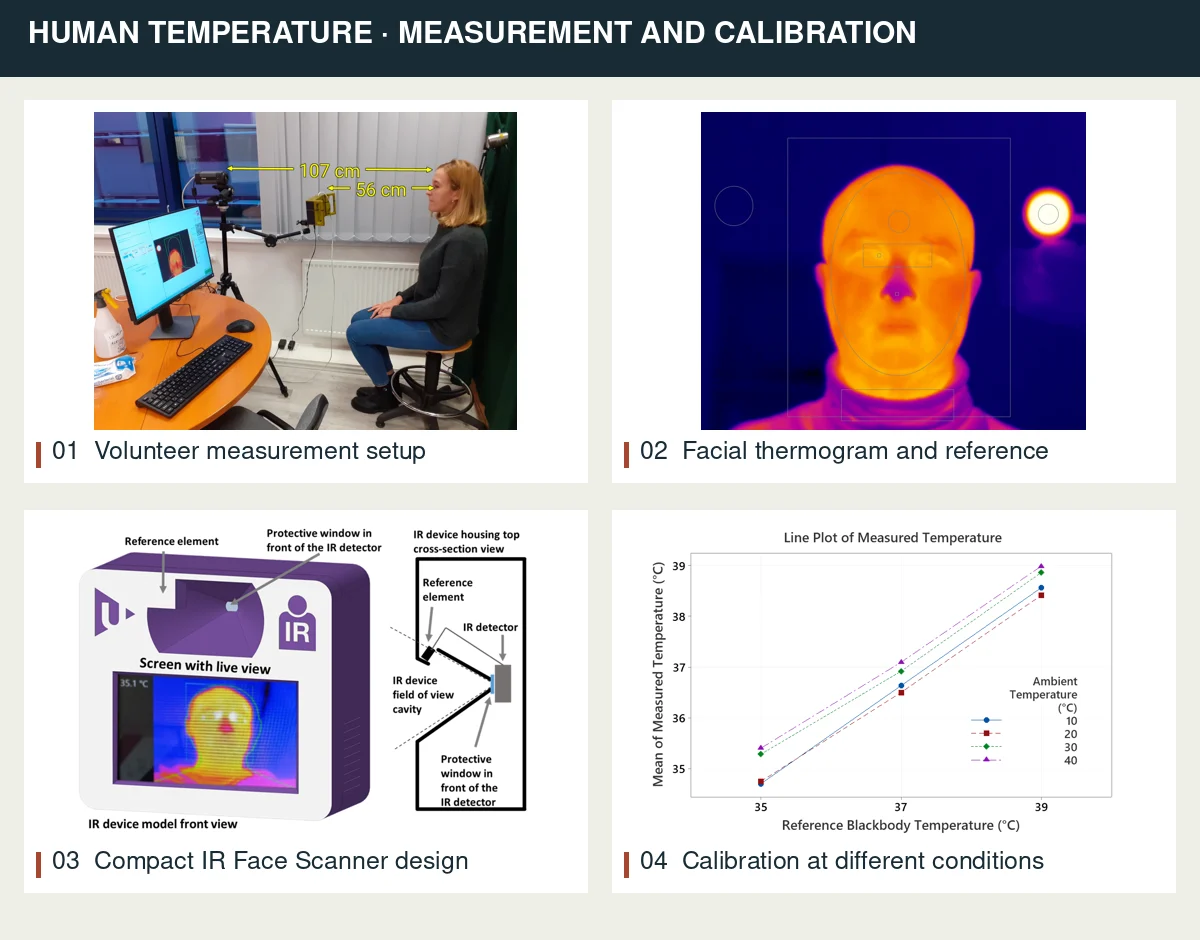
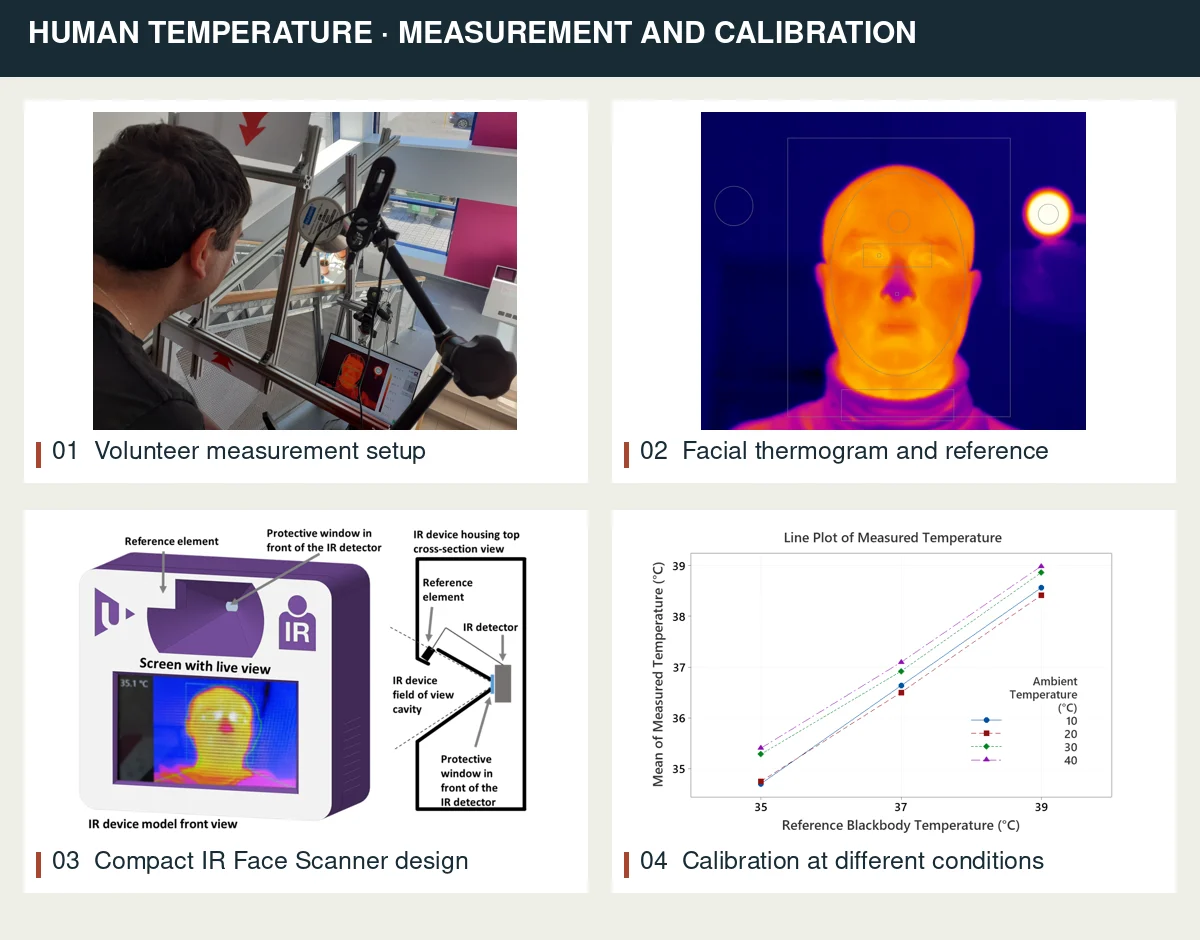
Replace research photo and harden external feeds, browser policy and workflows

Changed region(s): [[0.0617, 0.0926, 0.4317, 0.4628]]

diff --git a/videos.html b/videos.html
@@ -2,6 +2,8 @@
 <html lang="en">
 <head>
   <meta charset="utf-8">
+  <meta http-equiv="Content-Security-Policy" content="default-src 'none'; script-src 'self'; style-src 'self'; img-src 'self' data: https://img.youtube.com; media-src 'self'; connect-src 'self' https://pub.orcid.org https://api.github.com https://raw.githubusercontent.com https://script.google.com https://script.googleusercontent.com; frame-src https://www.youtube-nocookie.com; font-src 'self'; base-uri 'none'; object-src 'none'; form-action 'none'">
+  <meta name="referrer" content="strict-origin-when-cross-origin">
   <meta name="viewport" content="width=device-width, initial-scale=1">
   <meta name="description" content="Michal Švantner — Videos. Thermography, infrared NDT and temperature measurement.">
   <meta name="theme-color" content="#182b35">
@@ -21,7 +23,7 @@
   <div class="page-heading"><p class="eyebrow">Videos</p><h1>Research in motion.</h1><p>Experiments, measurement techniques and research tools — from infrared testing to high-speed imaging.</p></div>
   <section class="youtube-playlist" aria-label="Research videos from the Pracovní YouTube playlist">
     <div class="youtube-player">
-      <iframe src="https://www.youtube-nocookie.com/embed/videoseries?list=PL5j8OBCSHNnQx0IiaYhAmxtuQCGaH8rJG&amp;playsinline=1&amp;rel=0" title="Pracovní — research videos by Michal Švantner" width="960" height="540" referrerpolicy="strict-origin-when-cross-origin" allow="accelerometer; autoplay; clipboard-write; encrypted-media; gyroscope; picture-in-picture; web-share" allowfullscreen></iframe>
+      <iframe src="https://www.youtube-nocookie.com/embed/videoseries?list=PL5j8OBCSHNnQx0IiaYhAmxtuQCGaH8rJG&amp;playsinline=1&amp;rel=0" title="Pracovní — research videos by Michal Švantner" width="960" height="540" referrerpolicy="strict-origin-when-cross-origin" allow="autoplay; encrypted-media; picture-in-picture; fullscreen" allowfullscreen></iframe>
     </div>
     <div class="video-strip-heading"><h2>From the playlist</h2><div class="video-strip-controls"><button type="button" data-video-scroll="-1" aria-label="Previous videos">←</button><button type="button" data-video-scroll="1" aria-label="More videos">→</button></div></div>
     <div class="video-strip" id="video-strip" aria-label="Choose a video"><a class="video-card" href="https://www.youtube.com/watch?v=6pn8Mm6Z4gA&amp;list=PL5j8OBCSHNnQx0IiaYhAmxtuQCGaH8rJG" data-video-id="6pn8Mm6Z4gA" target="_blank" rel="noopener noreferrer" aria-label="Play: Konference Diago 2025"><img src="https://img.youtube.com/vi/6pn8Mm6Z4gA/mqdefault.jpg" alt="" width="320" height="180" loading="lazy"><span>Konference Diago 2025</span></a><a class="video-card" href="https://www.youtube.com/watch?v=VdzXxmeOKjM&amp;list=PL5j8OBCSHNnQx0IiaYhAmxtuQCGaH8rJG" data-video-id="VdzXxmeOKjM" target="_blank" rel="noopener noreferrer" aria-label="Play: IR termografie - nastavení zobrazení rozsahu teplot"><img src="https://img.youtube.com/vi/VdzXxmeOKjM/mqdefault.jpg" alt="" width="320" height="180" loading="lazy"><span>IR termografie - nastavení zobrazení rozsahu teplot</span></a><a class="video-card" href="https://www.youtube.com/watch?v=HNDYMClwNjY&amp;list=PL5j8OBCSHNnQx0IiaYhAmxtuQCGaH8rJG" data-video-id="HNDYMClwNjY" target="_blank" rel="noopener noreferrer" aria-label="Play: Policie v IR :-)"><img src="https://img.youtube.com/vi/HNDYMClwNjY/mqdefault.jpg" alt="" width="320" height="180" loading="lazy"><span>Policie v IR :-)</span></a><a class="video-card" href="https://www.youtube.com/watch?v=Rr8mSIjNJtA&amp;list=PL5j8OBCSHNnQx0IiaYhAmxtuQCGaH8rJG" data-video-id="Rr8mSIjNJtA" target="_blank" rel="noopener noreferrer" aria-label="Play: Gwiddion for IR"><img src="https://img.youtube.com/vi/Rr8mSIjNJtA/mqdefault.jpg" alt="" width="320" height="180" loading="lazy"><span>Gwiddion for IR</span></a><a class="video-card" href="https://www.youtube.com/watch?v=xHsNgFdPtoE&amp;list=PL5j8OBCSHNnQx0IiaYhAmxtuQCGaH8rJG" data-video-id="xHsNgFdPtoE" target="_blank" rel="noopener noreferrer" aria-label="Play: Face mask exhalation recorded by thermographic camera"><img src="https://img.youtube.com/vi/xHsNgFdPtoE/mqdefault.jpg" alt="" width="320" height="180" loading="lazy"><span>Face mask exhalation recorded by thermographic camera</span></a><a class="video-card" href="https://www.youtube.com/watch?v=ri4qCc9NNIg&amp;list=PL5j8OBCSHNnQx0IiaYhAmxtuQCGaH8rJG" data-video-id="ri4qCc9NNIg" target="_blank" rel="noopener noreferrer" aria-label="Play: LabIR NDT software introduction"><img src="https://img.youtube.com/vi/ri4qCc9NNIg/mqdefault.jpg" alt="" width="320" height="180" loading="lazy"><span>LabIR NDT software introduction</span></a><a class="video-card" href="https://www.youtube.com/watch?v=eiu8sfd2T-k&amp;list=PL5j8OBCSHNnQx0IiaYhAmxtuQCGaH8rJG" data-video-id="eiu8sfd2T-k" target="_blank" rel="noopener noreferrer" aria-label="Play: IRNDT flash pulse inspection"><img src="https://img.youtube.com/vi/eiu8sfd2T-k/mqdefault.jpg" alt="" width="320" height="180" loading="lazy"><span>IRNDT flash pulse inspection</span></a><a class="video-card" href="https://www.youtube.com/watch?v=C1tXMS5-4XM&amp;list=PL5j8OBCSHNnQx0IiaYhAmxtuQCGaH8rJG" data-video-id="C1tXMS5-4XM" target="_blank" rel="noopener noreferrer" aria-label="Play: LabIR ThermoStitch software for connecting thermograms"><img src="https://img.youtube.com/vi/C1tXMS5-4XM/mqdefault.jpg" alt="" width="320" height="180" loading="lazy"><span>LabIR ThermoStitch software for connecting thermograms</span></a><a class="video-card" href="https://www.youtube.com/watch?v=__9AyX8sf2I&amp;list=PL5j8OBCSHNnQx0IiaYhAmxtuQCGaH8rJG" data-video-id="__9AyX8sf2I" target="_blank" rel="noopener noreferrer" aria-label="Play: Vysokorychlostní záznam - exploze tlakových lahví 2017"><img src="https://img.youtube.com/vi/__9AyX8sf2I/mqdefault.jpg" alt="" width="320" height="180" loading="lazy"><span>Vysokorychlostní záznam - exploze tlakových lahví 2017</span></a><a class="video-card" href="https://www.youtube.com/watch?v=jYSCrGt52mM&amp;list=PL5j8OBCSHNnQx0IiaYhAmxtuQCGaH8rJG" data-video-id="jYSCrGt52mM" target="_blank" rel="noopener noreferrer" aria-label="Play: Hole drilling residual stress measurement"><img src="https://img.youtube.com/vi/jYSCrGt52mM/mqdefault.jpg" alt="" width="320" height="180" loading="lazy"><span>Hole drilling residual stress measurement</span></a></div>
@@ -31,3 +33,4 @@
   <footer><div class="wrap footer-inner"><span>Michal Švantner</span><span>Research · Measurement · Projects</span><a href="about.html">Contact ↗</a></div></footer>
 </body>
 </html>
+

diff --git a/research.html b/research.html
@@ -2,6 +2,8 @@
 <html lang="en">
 <head>
   <meta charset="utf-8">
+  <meta http-equiv="Content-Security-Policy" content="default-src 'none'; script-src 'self'; style-src 'self'; img-src 'self' data: https://img.youtube.com; media-src 'self'; connect-src 'self' https://pub.orcid.org https://api.github.com https://raw.githubusercontent.com https://script.google.com https://script.googleusercontent.com; frame-src https://www.youtube-nocookie.com; font-src 'self'; base-uri 'none'; object-src 'none'; form-action 'none'">
+  <meta name="referrer" content="strict-origin-when-cross-origin">
   <meta name="viewport" content="width=device-width, initial-scale=1">
   <meta name="description" content="Michal Švantner — Research. Thermography, infrared NDT and temperature measurement.">
   <meta name="theme-color" content="#182b35">
@@ -33,7 +35,7 @@
       <h3 id="human-title">Human temperature measurement</h3>
       <p class="research-subtitle">Evaluating thermographic screening and developing a compact device with an integrated temperature reference.</p>
       <p class="research-description">How reliable is non-contact temperature screening? We study how ambient conditions, calibration and the choice of facial region affect measurements. Our compact IR Face Scanner combines thermal imaging with an integrated heated reference to improve measurement stability and explore the practical limits of estimating body temperature from skin temperature.</p>
-      <figure class="research-poster"><a href="assets/research-temperature-poster.webp" target="_blank" rel="noopener noreferrer" aria-label="Open full-size poster: Human temperature measurement"><img src="assets/research-temperature-poster.webp" width="1200" height="940" alt="Research poster showing a volunteer measurement setup, a facial thermogram, the IR Face Scanner design and calibration results at different ambient temperatures." loading="lazy"></a><figcaption>From volunteer measurements to a calibrated compact device · Select image to enlarge ↗</figcaption></figure>
+      <figure class="research-poster"><a href="assets/research-temperature-poster-v2.webp" target="_blank" rel="noopener noreferrer" aria-label="Open full-size poster: Human temperature measurement"><img src="assets/research-temperature-poster-v2.webp" width="1200" height="940" alt="Research poster showing a volunteer measurement setup, a facial thermogram, the IR Face Scanner design and calibration results at different ambient temperatures." loading="lazy"></a><figcaption>From volunteer measurements to a calibrated compact device · Select image to enlarge ↗</figcaption></figure>
       <dl class="research-highlights"><div><dt>Benefits</dt><dd>Fast, contactless measurement with a built-in reference to improve temperature stability.</dd></div><div><dt>Novelty</dt><dd>An integrated active reference element, supported by statistical studies of facial temperature and measurement conditions.</dd></div><div><dt>Applications</dt><dd>Development and evaluation of temperature-screening systems for workplaces and public spaces, with attention to the limits of skin-temperature measurement.</dd></div></dl>
       <div class="research-papers"><h4>Related papers</h4><ul><li><a href="https://doi.org/10.1016/j.infrared.2024.105176" target="_blank" rel="noopener noreferrer">Thermographic device with a calibrating element for enhanced precision of human temperature measurement ↗</a></li><li><a href="https://doi.org/10.3390/engproc2023051017" target="_blank" rel="noopener noreferrer">Compact Thermographic Device with Built-in Active Reference Element for Increased Measurement Accuracy ↗</a></li><li><a href="https://doi.org/10.3390/s22218395" target="_blank" rel="noopener noreferrer">Statistical Study on Human Temperature Measurement by Infrared Thermography ↗</a></li><li><a href="https://doi.org/10.1109/MetroLivEnv54405.2022.9826942" target="_blank" rel="noopener noreferrer">Possibilities and limits of human temperature measurement by thermographic methods ↗</a></li><li><a href="https://doi.org/10.3390/engproc2021008004" target="_blank" rel="noopener noreferrer">Study on Human Temperature Measurement by Infrared Thermography ↗</a></li></ul></div>
     </article>
@@ -42,3 +44,4 @@
   <footer><div class="wrap footer-inner"><span>Michal Švantner</span><span>Research · Measurement · Projects</span><a href="about.html">Contact ↗</a></div></footer>
 </body>
 </html>
+

diff --git a/about.html b/about.html
@@ -2,6 +2,8 @@
 <html lang="en">
 <head>
   <meta charset="utf-8">
+  <meta http-equiv="Content-Security-Policy" content="default-src 'none'; script-src 'self'; style-src 'self'; img-src 'self' data: https://img.youtube.com; media-src 'self'; connect-src 'self' https://pub.orcid.org https://api.github.com https://raw.githubusercontent.com https://script.google.com https://script.googleusercontent.com; frame-src https://www.youtube-nocookie.com; font-src 'self'; base-uri 'none'; object-src 'none'; form-action 'none'">
+  <meta name="referrer" content="strict-origin-when-cross-origin">
   <meta name="viewport" content="width=device-width, initial-scale=1">
   <meta name="description" content="Michal Švantner — About &amp; Contact. Thermography, infrared NDT and temperature measurement.">
   <meta name="theme-color" content="#182b35">
@@ -25,7 +27,7 @@
       <section class="affiliation-section" aria-labelledby="affiliation-title">
         <h2 id="affiliation-title">Affiliation</h2>
         <div class="affiliation-card">
-        <figure class="affiliation-photo" style="float:right;width:180px;max-width:42%;margin:0 0 12px 18px;"><img src="assets/zcu-campus.jpg" alt="Faculty of Electrical Engineering building on the University of West Bohemia campus in Plzeň." width="180" height="88" style="display:block;width:100%;max-width:180px;height:auto;"><figcaption><a href="https://commons.wikimedia.org/wiki/File:Zcu_fel.jpg" target="_blank" rel="noopener noreferrer">Photo: Parkis · public domain</a></figcaption></figure>
+        <figure class="affiliation-photo"><img src="assets/zcu-campus.jpg" alt="Faculty of Electrical Engineering building on the University of West Bohemia campus in Plzeň." width="180" height="88"><figcaption><a href="https://commons.wikimedia.org/wiki/File:Zcu_fel.jpg" target="_blank" rel="noopener noreferrer">Photo: Parkis · public domain</a></figcaption></figure>
         <p>Senior Researcher and Team Leader at the New Technologies Research Centre (NTC), University of West Bohemia, Plzeň, Czech Republic.</p>
         <p>I am part of the Infrared Technologies team.</p>
         <p><a href="https://irt.zcu.cz/en/person/michal-svantner-en/" target="_blank" rel="noopener noreferrer">University profile ↗</a></p>
@@ -56,3 +58,4 @@
   <footer><div class="wrap footer-inner"><span>Michal Švantner</span><span>Research · Measurement · Projects</span><a href="about.html">Contact ↗</a></div></footer>
 </body>
 </html>
+

diff --git a/conferences-archive.html b/conferences-archive.html
@@ -2,6 +2,8 @@
 <html lang="en">
 <head>
   <meta charset="utf-8">
+  <meta http-equiv="Content-Security-Policy" content="default-src 'none'; script-src 'self'; style-src 'self'; img-src 'self' data: https://img.youtube.com; media-src 'self'; connect-src 'self' https://pub.orcid.org https://api.github.com https://raw.githubusercontent.com https://script.google.com https://script.googleusercontent.com; frame-src https://www.youtube-nocookie.com; font-src 'self'; base-uri 'none'; object-src 'none'; form-action 'none'">
+  <meta name="referrer" content="strict-origin-when-cross-origin">
   <meta name="viewport" content="width=device-width, initial-scale=1">
   <meta name="description" content="Michal Švantner — Conferences. Thermography, infrared NDT and temperature measurement.">
   <meta name="theme-color" content="#182b35">
@@ -10,7 +12,7 @@
   <link rel="stylesheet" href="styles.css?v=conference-columns-20261026">
   <script src="script.js" defer></script>
   <meta name="conference-feed" content="https://script.google.com/macros/s/AKfycbykV145NRv0lZiKQ5PiSLj82qPWI0_8LthxPfLLHvwlzM36eYPpxUzbAOhmf0gry6Y/exec">
-  <script type="module" src="conferences.mjs?v=columns-20261026"></script>
+  <script type="module" src="conferences.mjs?v=security-20261026"></script>
 </head>
 <body data-conference-view="archive">
   <a class="skip-link" href="#main">Skip to content</a>
@@ -26,3 +28,4 @@
   <footer><div class="wrap footer-inner"><span>Michal Švantner</span><span>Research · Measurement · Projects</span><a href="about.html">Contact ↗</a></div></footer>
 </body>
 </html>
+

diff --git a/conferences.html b/conferences.html
@@ -2,6 +2,8 @@
 <html lang="en">
 <head>
   <meta charset="utf-8">
+  <meta http-equiv="Content-Security-Policy" content="default-src 'none'; script-src 'self'; style-src 'self'; img-src 'self' data: https://img.youtube.com; media-src 'self'; connect-src 'self' https://pub.orcid.org https://api.github.com https://raw.githubusercontent.com https://script.google.com https://script.googleusercontent.com; frame-src https://www.youtube-nocookie.com; font-src 'self'; base-uri 'none'; object-src 'none'; form-action 'none'">
+  <meta name="referrer" content="strict-origin-when-cross-origin">
   <meta name="viewport" content="width=device-width, initial-scale=1">
   <meta name="description" content="Michal Švantner — Conferences. Thermography, infrared NDT and temperature measurement.">
   <meta name="theme-color" content="#182b35">
@@ -10,7 +12,7 @@
   <link rel="stylesheet" href="styles.css?v=conference-columns-20261026">
   <script src="script.js" defer></script>
   <meta name="conference-feed" content="https://script.google.com/macros/s/AKfycbykV145NRv0lZiKQ5PiSLj82qPWI0_8LthxPfLLHvwlzM36eYPpxUzbAOhmf0gry6Y/exec">
-  <script type="module" src="conferences.mjs?v=columns-20261026"></script>
+  <script type="module" src="conferences.mjs?v=security-20261026"></script>
 </head>
 <body>
   <a class="skip-link" href="#main">Skip to content</a>
@@ -26,3 +28,4 @@
   <footer><div class="wrap footer-inner"><span>Michal Švantner</span><span>Research · Measurement · Projects</span><a href="about.html">Contact ↗</a></div></footer>
 </body>
 </html>
+

diff --git a/publications.html b/publications.html
@@ -2,6 +2,8 @@
 <html lang="en">
 <head>
   <meta charset="utf-8">
+  <meta http-equiv="Content-Security-Policy" content="default-src 'none'; script-src 'self'; style-src 'self'; img-src 'self' data: https://img.youtube.com; media-src 'self'; connect-src 'self' https://pub.orcid.org https://api.github.com https://raw.githubusercontent.com https://script.google.com https://script.googleusercontent.com; frame-src https://www.youtube-nocookie.com; font-src 'self'; base-uri 'none'; object-src 'none'; form-action 'none'">
+  <meta name="referrer" content="strict-origin-when-cross-origin">
   <meta name="viewport" content="width=device-width, initial-scale=1">
   <meta name="description" content="Michal Švantner — Publications. Thermography, infrared NDT and temperature measurement.">
   <meta name="theme-color" content="#182b35">
@@ -41,3 +43,4 @@
   <footer><div class="wrap footer-inner"><span>Michal Švantner</span><span>Research · Measurement · Projects</span><a href="about.html">Contact ↗</a></div></footer>
 </body>
 </html>
+

diff --git a/projects.html b/projects.html
@@ -2,6 +2,8 @@
 <html lang="en">
 <head>
   <meta charset="utf-8">
+  <meta http-equiv="Content-Security-Policy" content="default-src 'none'; script-src 'self'; style-src 'self'; img-src 'self' data: https://img.youtube.com; media-src 'self'; connect-src 'self' https://pub.orcid.org https://api.github.com https://raw.githubusercontent.com https://script.google.com https://script.googleusercontent.com; frame-src https://www.youtube-nocookie.com; font-src 'self'; base-uri 'none'; object-src 'none'; form-action 'none'">
+  <meta name="referrer" content="strict-origin-when-cross-origin">
   <meta name="viewport" content="width=device-width, initial-scale=1">
   <meta name="description" content="Michal Švantner — Projects. Thermography, infrared NDT and temperature measurement.">
   <meta name="theme-color" content="#182b35">
@@ -40,3 +42,4 @@
   <footer><div class="wrap footer-inner"><span>Michal Švantner</span><span>Research · Measurement · Projects</span><a href="about.html">Contact ↗</a></div></footer>
 </body>
 </html>
+

diff --git a/index.html b/index.html
@@ -2,6 +2,8 @@
 <html lang="en">
 <head>
   <meta charset="utf-8">
+  <meta http-equiv="Content-Security-Policy" content="default-src 'none'; script-src 'self'; style-src 'self'; img-src 'self' data: https://img.youtube.com; media-src 'self'; connect-src 'self' https://pub.orcid.org https://api.github.com https://raw.githubusercontent.com https://script.google.com https://script.googleusercontent.com; frame-src https://www.youtube-nocookie.com; font-src 'self'; base-uri 'none'; object-src 'none'; form-action 'none'">
+  <meta name="referrer" content="strict-origin-when-cross-origin">
   <meta name="viewport" content="width=device-width, initial-scale=1">
   <meta name="description" content="Michal Švantner — Home. Thermography, infrared NDT and temperature measurement.">
   <meta name="theme-color" content="#182b35">
@@ -45,3 +47,4 @@
   <footer><div class="wrap footer-inner"><span>Michal Švantner</span><span>Research · Measurement · Projects</span><a href="about.html">Contact ↗</a></div></footer>
 </body>
 </html>
+

diff --git a/tools/SECURITY-AUDIT.md b/tools/SECURITY-AUDIT.md
@@ -1,0 +1,47 @@
+# Bezpečnostní kontrola webu — 26. října 2026
+
+## Rozsah a výsledek
+
+Kontrola veřejného repozitáře `msvantny/msvantny.github.io` vycházela z commitu `af20c5e89e2a7c98fcede6ff1aa09d2e5bbae320`. Zahrnovala všechny současné HTML, JavaScript, Apps Script, Python a workflow soubory, zdroje obrázků, 19 dostupných commitů a 83 unikátních textových blobů v historii. Historie byla prohledána na běžné formáty tokenů GitHub/Google/AWS/Slack, soukromé klíče, přihlašovací údaje v URL a přiřazení hesel či tajných klíčů; bez nálezu. Následovala ruční kontrola zpracování externích dat a oprávnění automatizací.
+
+Nebyl nalezen zveřejněný přístupový klíč ani cesta, kterou by návštěvník mohl prostřednictvím kontrolovaného kódu zapisovat do Google Drive nebo Sheets. Kontrola není zárukou nepřítomnosti všech zranitelností ani nezávislým penetračním testem. Nezahrnovala privátní nastavení přihlášení účtů, všechny logy GitHub Actions, obsah nedostupných větví ani interní infrastrukturu poskytovatelů. Nasazený Apps Script byl funkčně ověřen jako veřejný datový zdroj; jeho implementace byla posouzena podle souboru uloženého v repozitáři, nikoli přímou inspekcí editoru nasazené verze.
+
+## Provedené opravy
+
+| Oblast | Zjištění a úprava |
+| --- | --- |
+| Konference | JSONP spouštěl odpověď vzdáleného zdroje jako JavaScript. Klient nyní používá `fetch` a `response.json()`, bez přihlašovacích údajů. Funguje se stávajícím nasazením, není nutné znovu implementovat Apps Script. |
+| Všechny stránky | Přidána Content Security Policy: spustitelné skripty pouze ze stejného webu, zakázané inline skripty a eval, omezené zdroje obrázků, dat a iframe, zakázané objekty, formuláře a změna základní URL. Existující inline styly nahrazeny již přítomnými CSS pravidly. |
+| Automatizace | GitHub Actions připnuty k ověřeným úplným SHA v oficiálních repozitářích. Checkout neukládá přístupový token do Git konfigurace. Zápis je omezen na úlohu aktualizace playlistu; token pro push je předán pouze příslušnému kroku. Playwright má konkrétní verzi a instalace nepouští npm lifecycle skripty. |
+| YouTube | Zachován oddělený přehrávač na `youtube-nocookie.com`; odstraněna nepotřebná oprávnění iframe ke schránce, senzorům a sdílení. |
+| Fotografie | V koláži měření lidí použita nově dodaná fotografie zezadu. Nahrazena také aktuální stará URL koláže; nový odkaz omezuje zobrazování starého obrázku z cache. Výstup nemá EXIF/GPS metadata. |
+
+## Co externí služby skutečně zpřístupňují
+
+| Služba | Veřejné údaje / přístup |
+| --- | --- |
+| ORCID | Veřejné články, financování a profesní aktivity. ORCID iD není heslo ani token; klient nemá zápisové oprávnění. |
+| GitHub | Veřejné repozitáře a metadata playlistu. Výraz `${{ github.token }}` ve workflow je odkaz na dočasný token vytvořený GitHubem za běhu; není to zveřejněná hodnota tokenu. |
+| YouTube | Veřejný playlist, názvy a náhledy videí. Bez API klíče a bez přístupu k účtu vlastníka. Při načtení náhledů/přehrávače vznikají síťové požadavky na Google; jde o soukromí návštěvníka, nikoli o přístup k účtu autora. |
+| Google Sheets / galerie | Přes metadata Drive ověřeno, že tabulka Conferences i složka Galerie_Conferences mají `shared=false` a jen oprávnění vlastníka. Veřejný endpoint je záměrně dostupný každému; podle kontrolovaného zdroje exportuje pouze pevný seznam polí z řádků Publish = Yes a náhledy pojmenovaných fotografií z určené složky. Soukromé poznámky a původní citace se neexportují. Neobsahuje `doPost` ani zápisové operace. ID tabulky/složky samo nepřiděluje oprávnění. |
+
+Texty vkládané do HTML se escapují; odkazy odmítají spustitelná schémata, ID videí mají předepsaný formát, obrázky konferencí povolují pouze určené místní WebP nebo rastrová data JPEG/PNG/WebP. Odkazy do nové karty používají `noopener noreferrer`. Není zde přihlašovací formulář ani ukládání tokenů do prohlížeče.
+
+## Zbývající omezení a údržba
+
+- **Historie je veřejná.** Původní koláž s fotografií paní zůstává v minulých commitech. Úplné odstranění vyžaduje samostatné vyčištění historie a řešení případných cache či kopií; běžné nahrazení souboru to nezajistí.
+- **Již zveřejněné údaje jsou veřejné.** Publish = No odstraní záznam ze živého feedu, ale ne ze starší uložené zálohy HTML, historie nebo cizích kopií. Při požadavku na stažení již zveřejněného údaje je třeba upravit i zálohy. Do veřejných sloupců a schválených fotografií proto nepatří soukromé údaje.
+- **Veřejný Apps Script může kdokoli opakovaně číst.** To může spotřebovat kvótu a dočasně znefunkčnit aktualizace; neposkytuje to právo měnit Disk. Při vyšší návštěvnosti lze přidat cache nebo generovat statický datový soubor.
+- **Hlavní větev nemá ochranu větve.** Zjištěno přes GitHub API; automaticky neměněno, protože by to mohlo zablokovat současný způsob úprav a aktualizace playlistu. Práva účtů, dvoufázové ověření a obnovení přístupu nebyla touto kontrolou ověřena.
+- CSP je v HTML meta tagu. Hlavičky jako `frame-ancestors`/`X-Frame-Options` nelze tímto způsobem vynutit. Stránka neobsahuje citlivé přihlášené operace. TLS/HSTS na živém webu byly ověřeny.
+
+## Ověření
+
+Prošly testy escapování vzdáleného textu, odmítání spustitelných odkazů a SVG dat v konferencích, exportu pouze schválených řádků a veřejných polí Apps Scriptu, absence JSONP v klientovi a CSP ve všech osmi HTML stránkách. V prohlížeči bylo ověřeno načtení živých konferencí, článků, projektů, profesních aktivit i náhledů videí a přepínání videa. Při těchto kontrolách nebyla hlášena porušení CSP. Skeny tajných údajů neuvádějí v tomto dokumentu hodnoty hledaných vzorů.
+
+## Dokumentace
+
+- Google Apps Script Content Service: https://developers.google.com/apps-script/guides/content
+- GitHub Actions secure use: https://docs.github.com/en/actions/reference/security/secure-use
+- Content Security Policy: https://developer.mozilla.org/en-US/docs/Web/HTTP/Guides/CSP
+- Omezení frame-ancestors v meta tagu: https://developer.mozilla.org/en-US/docs/Web/HTTP/Reference/Headers/Content-Security-Policy/frame-ancestors

diff --git a/tools/CONFERENCES.md b/tools/CONFERENCES.md
@@ -30,3 +30,8 @@ Tabulka ani složka nemusí mít veřejné sdílení. Veřejná webová aplikace
 Při nedostupném zdroji zůstane viditelná uložená verze. Ta se sama nepřepisuje: pro odstranění již dříve uloženého záznamu je třeba aktualizovat i uloženou verzi webu. Až bude živé propojení ověřeno, lze zálohu změnit na neutrální hlášení podle požadovaného chování.
 
 Dokumentace: https://developers.google.com/apps-script/guides/content a https://developers.google.com/apps-script/guides/web.
+
+
+## Bezpečnostní úprava 26. října 2026
+
+Web načítá odpověď endpointu jako JSON pomocí fetch; nepoužívá JSONP ani nespouští vzdálený skript. Stávající nasazení již JSON podporuje, proto není třeba nic znovu implementovat. Bezpečnostní kontrola a omezení jsou popsány v [SECURITY-AUDIT.md](SECURITY-AUDIT.md).
